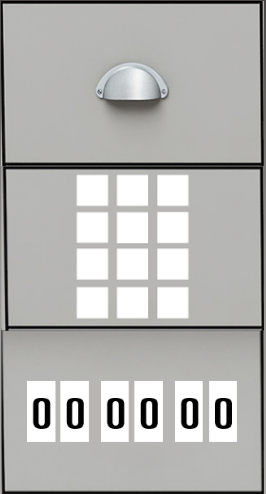
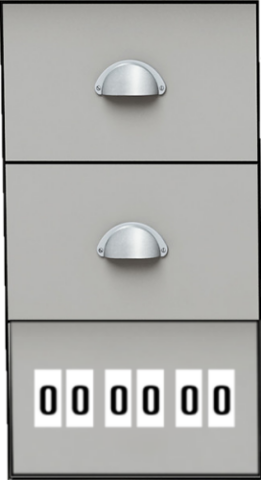
second commit

diff --git a/방탈_개인프로젝트/escape.cpp b/방탈_개인프로젝트/escape.cpp
@@ -4,30 +4,17 @@ Escape::Escape() {
 	setGameOption(GameOption::GAME_OPTION_INVENTORY_BUTTON, false);
 	setGameOption(GameOption::GAME_OPTION_MESSAGE_BOX_BUTTON, false);
 
-	startMenu = Scene::create("", "Images/startMenu.png");
 	labExplain = Scene::create("", "Images/menu1.png");
-
-	labButton = Object::create("Images/labButton.png", startMenu, 145, 80);
 	labPlayButton = Object::create("Images/playButton.png", labExplain, 170, 220);
-	labBackButton = Object::create("Images/backButton.png", labExplain, 170, 120);
-
-	labButton->setOnMouseCallback([&](ObjectPtr obj, int x, int y, MouseAction action)->bool {
-		labExplain->enter();
-		return true;
-	});
 
 	labPlayButton->setOnMouseCallback([&](auto obj, auto x, auto y, auto action)->bool {
 		labGame.labStart();
 		return true;
 	});
 
-	labBackButton->setOnMouseCallback([&](auto obj, auto x, auto y, auto action)->bool {
-		startMenu->enter();
-		return true;
-	});
 }
 
 bool Escape::gameStart() {
-	startGame(startMenu);
+	startGame(labExplain);
 	return true;
 }

diff --git a/방탈_개인프로젝트/lab.h b/방탈_개인프로젝트/lab.h
@@ -38,6 +38,7 @@ class Lab {
 	ObjectPtr leftBack;
 	ObjectPtr leftBookshelf;
 	ObjectPtr leftProps[6];
+	ObjectPtr key;
 	
 	//Middle
 	ScenePtr middleScene;
@@ -58,7 +59,11 @@ class Lab {
 	ScenePtr drawerScene;
 	ObjectPtr drawerBack;
 	ObjectPtr drawers[3];
+	ObjectPtr drawer2Lock[12];
+	ObjectPtr drawer3Lock[6];
+	ObjectPtr box;
 	ObjectPtr hints[3];
+	int boxIsOpen;
 	int drawerIsSolve[3];
 	int drawerIsOpen[3];
 

diff --git a/방탈_개인프로젝트/escape.h b/방탈_개인프로젝트/escape.h
@@ -2,12 +2,10 @@
 #include "lab.h"
 
 class Escape {
-	ScenePtr startMenu;
 	ScenePtr labExplain;
 
 	ObjectPtr labButton;
 	ObjectPtr labPlayButton;
-	ObjectPtr labBackButton;
 
 	Lab labGame;
 
